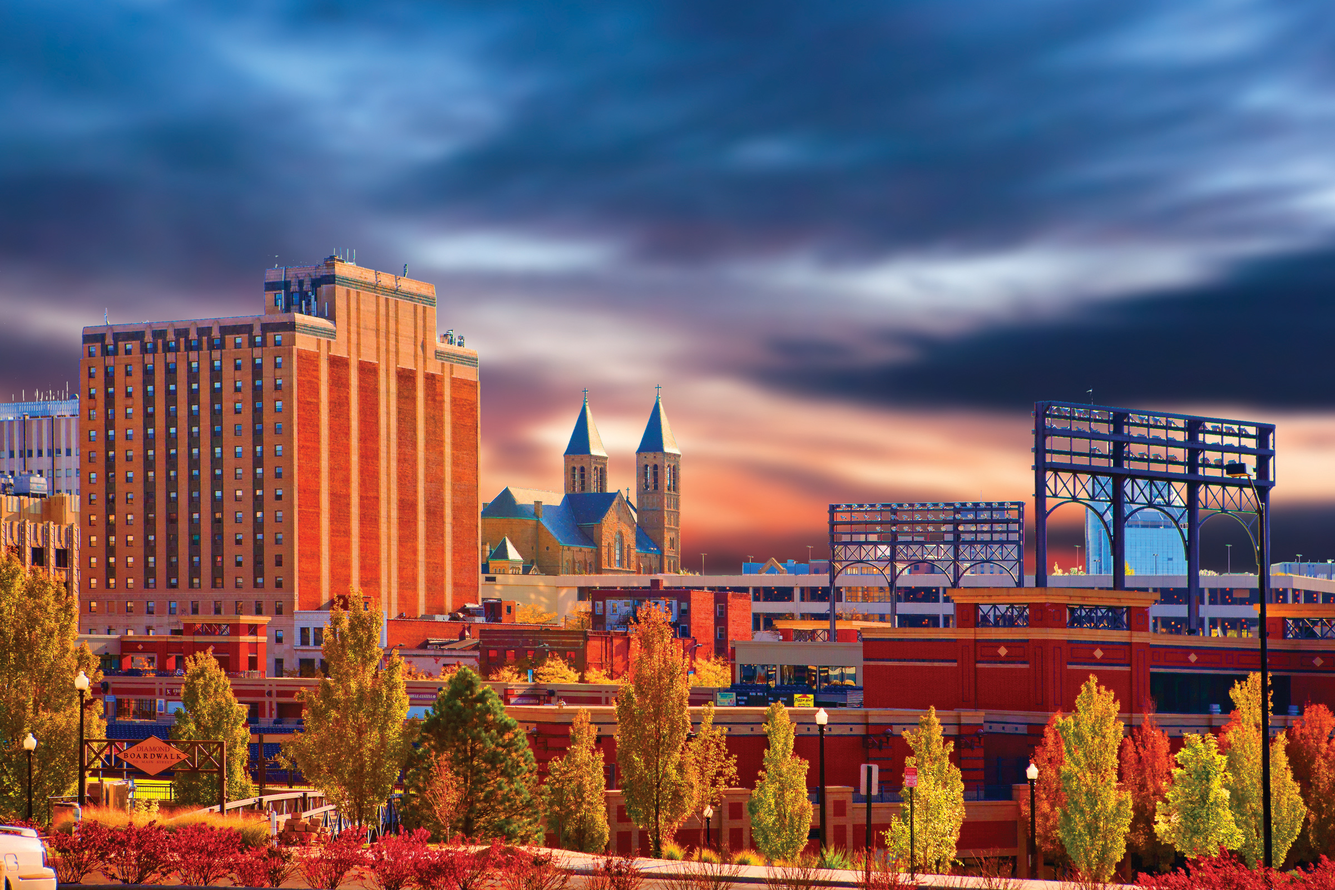
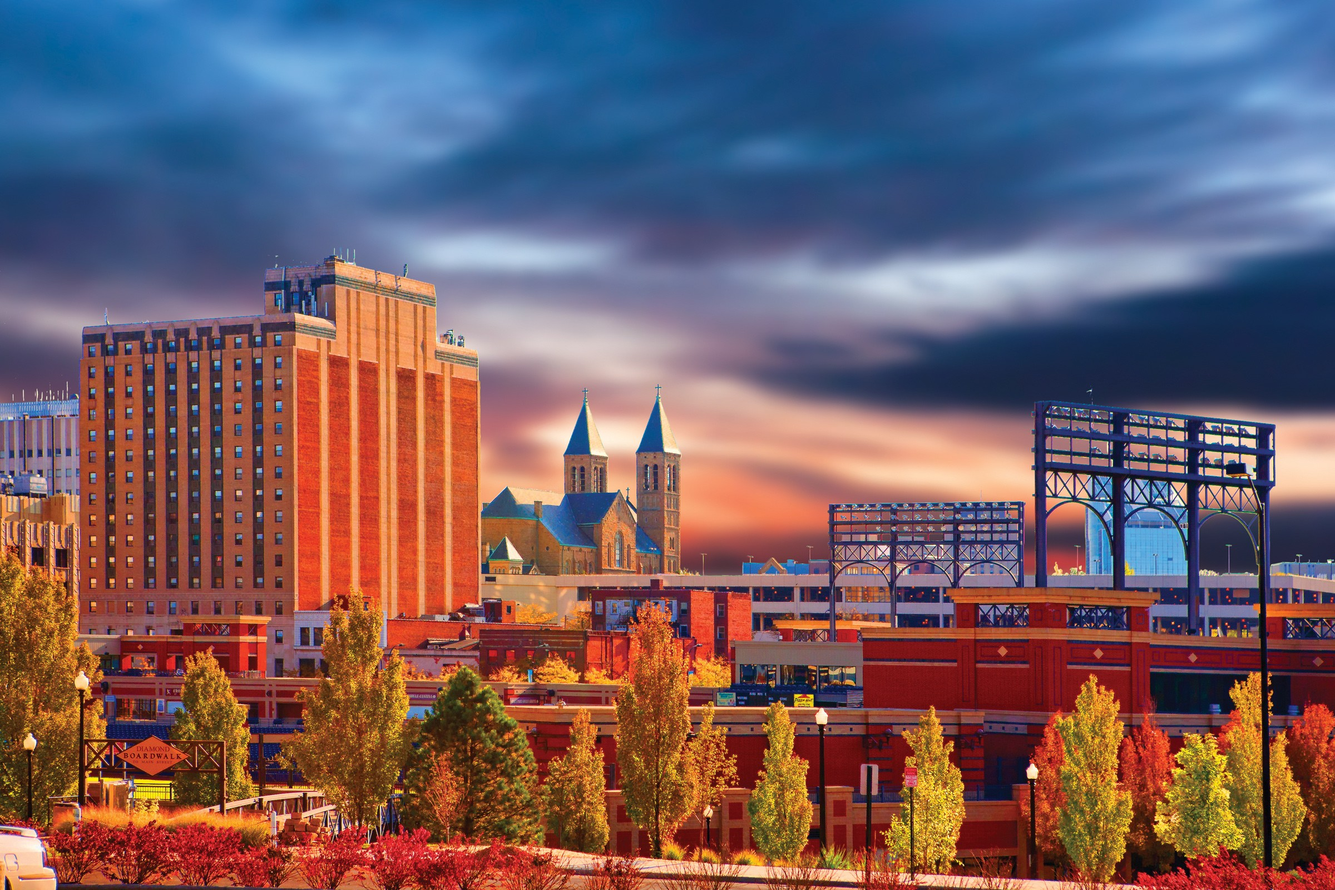
compressed bg image

diff --git a/css/business-casual.css b/css/business-casual.css
@@ -6,7 +6,7 @@
 
 body {
     font-family: "Open Sans", "Helvetica Neue", Helvetica, Arial, sans-serif;
-    background: url('../img/akron.jpg') no-repeat center center fixed;
+    background: url('../img/akron2.jpg') no-repeat center center fixed;
     -webkit-background-size: cover;
     -moz-background-size: cover;
     background-size: cover;
